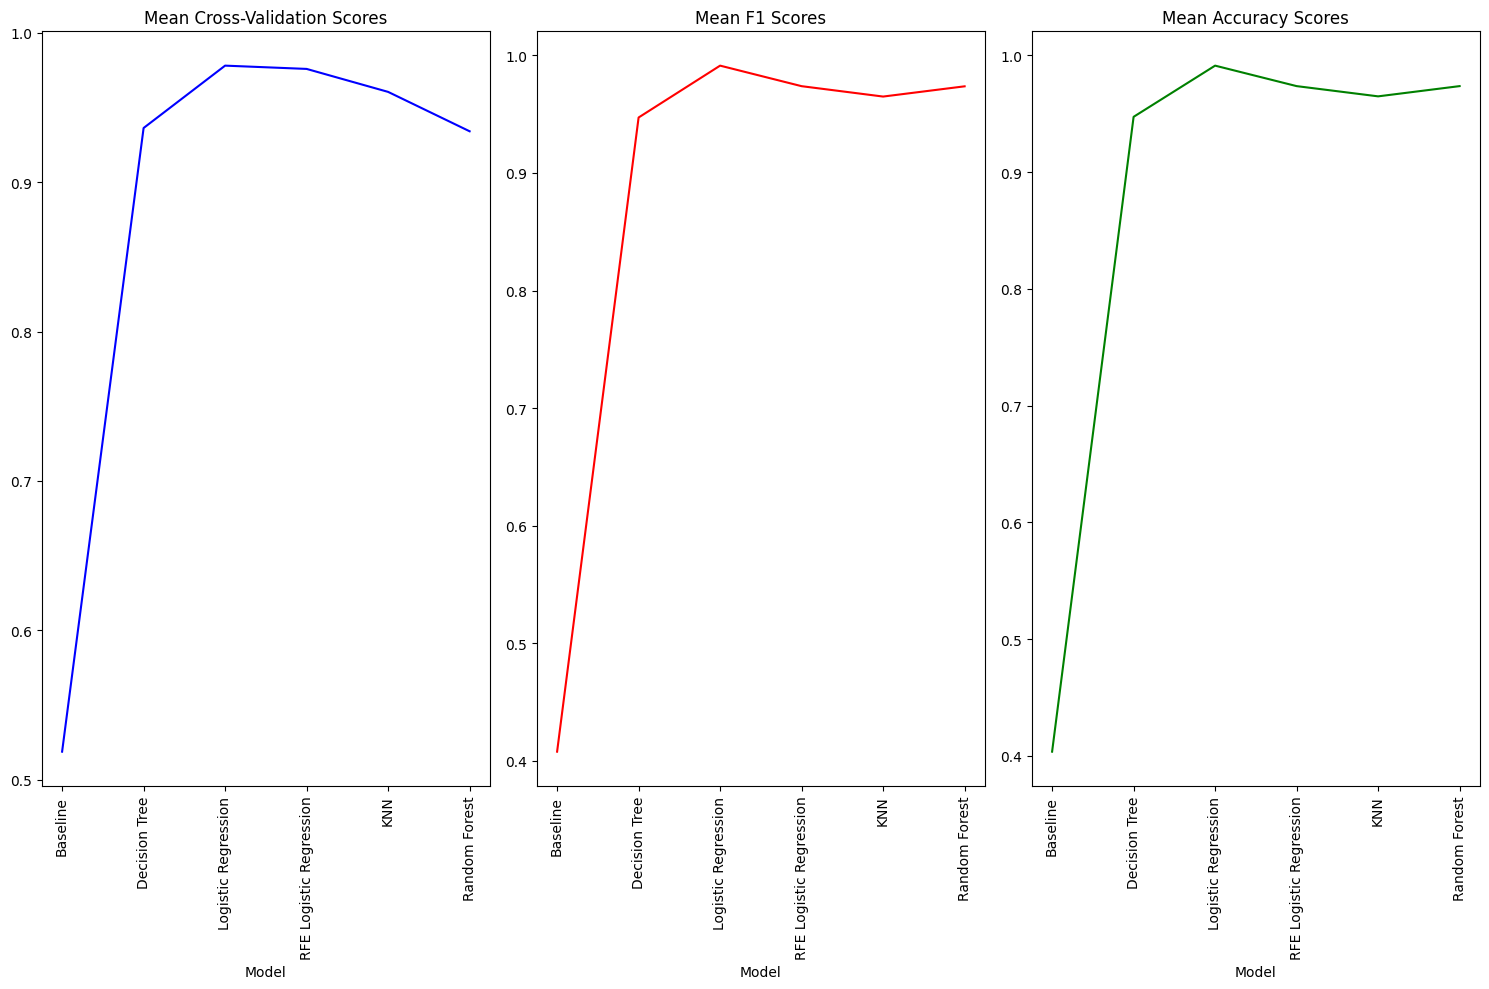
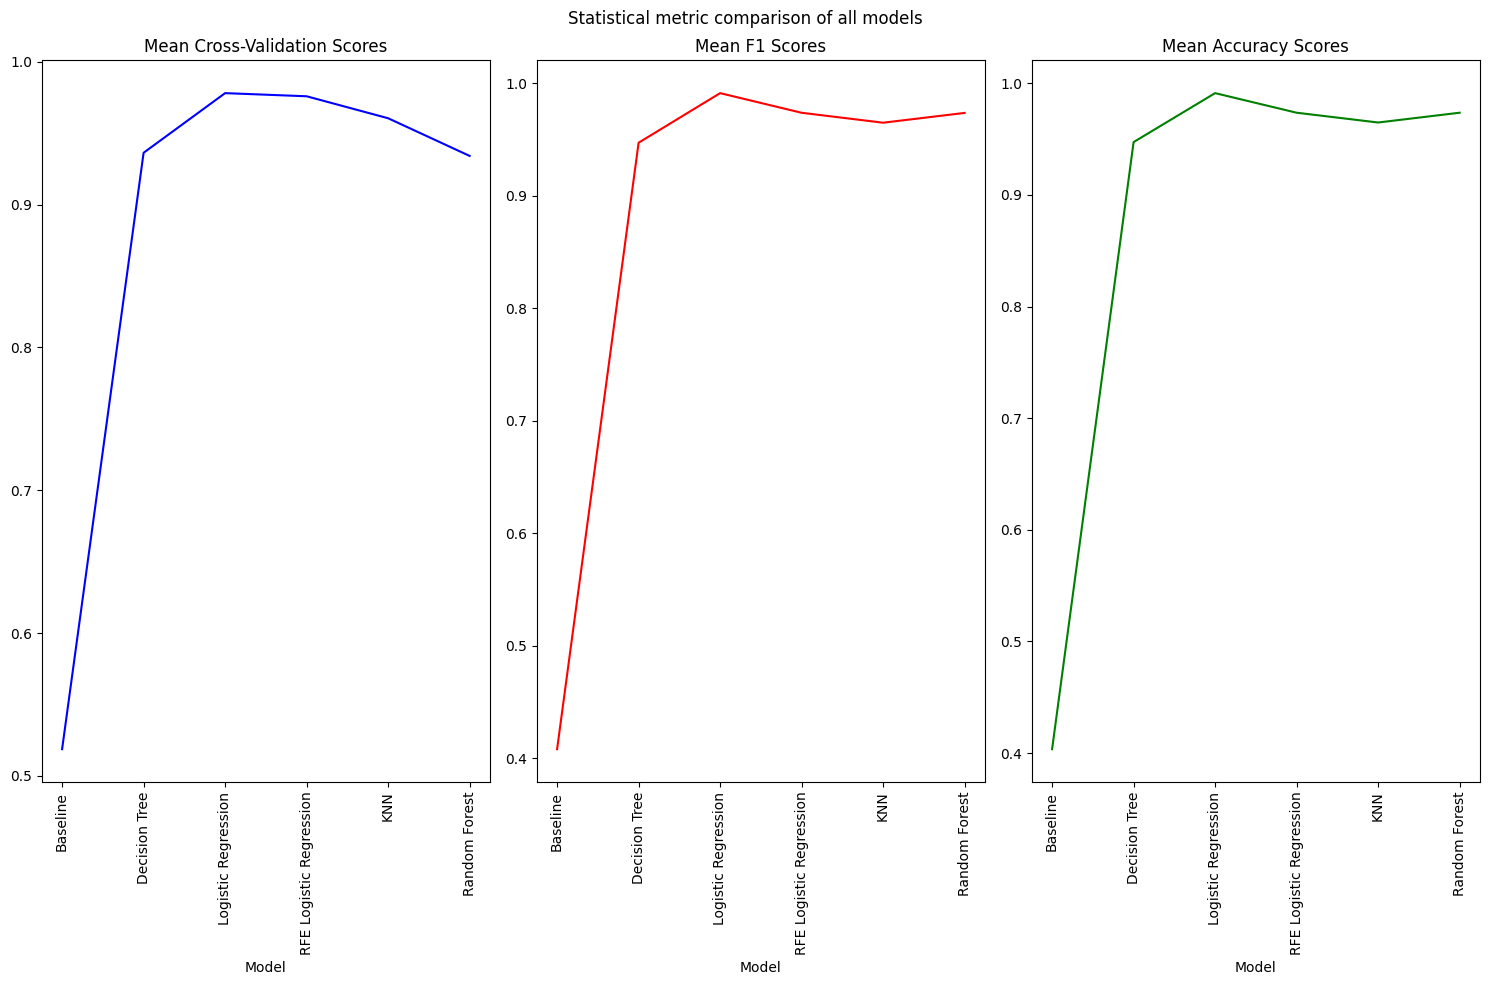
Error analysis streamline

diff --git a/lime_explanations/Random Forest_explanation_8.html b/lime_explanations/Random Forest_explanation_8.html
@@ -37089,10 +37089,10 @@
 /***/ })
 /******/ ]);
 //# sourceMappingURL=bundle.js.map </script></head><body>
-        <div class="lime top_div" id="top_div5H208G8TCDR0Z7X"></div>
+        <div class="lime top_div" id="top_divKRIQ844ONK4D49P"></div>
         
         <script>
-        var top_div = d3.select('#top_div5H208G8TCDR0Z7X').classed('lime top_div', true);
+        var top_div = d3.select('#top_divKRIQ844ONK4D49P').classed('lime top_div', true);
         
             var pp_div = top_div.append('div')
                                 .classed('lime predict_proba', true);
@@ -37104,10 +37104,10 @@
             var exp = new lime.Explanation(["Negative", "Positive"]);
         
                 exp_div = top_div.append('div').classed('lime explanation', true);
-                exp.show([["concave points_worst > 0.16", 0.058784060726469606], ["area_se <= 18.17", -0.05731649548397294], ["symmetry_worst > 0.32", 0.053042632559569876], ["texture_mean <= 16.17", -0.039763622688414435], ["concavity_worst > 0.39", 0.038975241702547306], ["smoothness_mean > 0.10", 0.03403416691038161], ["21.05 < texture_worst <= 25.22", -0.025630973496369246], ["516.45 < area_worst <= 686.60", -0.021902538343172902], ["fractal_dimension_worst > 0.09", 0.0176230949288597], ["compactness_worst > 0.34", 0.017004337103742634]], 1, exp_div);
+                exp.show([["area_se <= 18.17", -0.05894774618236698], ["concave points_worst > 0.16", 0.05372699673829915], ["symmetry_worst > 0.32", 0.05090749284629121], ["concavity_worst > 0.39", 0.04767807133354301], ["texture_mean <= 16.17", -0.04032498336562139], ["smoothness_mean > 0.10", 0.03084870499569545], ["fractal_dimension_worst > 0.09", 0.02236998699935285], ["21.05 < texture_worst <= 25.22", -0.021425967749089923], ["516.45 < area_worst <= 686.60", -0.019106697527694203], ["compactness_worst > 0.34", 0.0186536678407806]], 1, exp_div);
                 
         var raw_div = top_div.append('div');
-            exp.show_raw_tabular([["concave points_worst", "0.17", 0.058784060726469606], ["area_se", "12.96", -0.05731649548397294], ["symmetry_worst", "0.35", 0.053042632559569876], ["texture_mean", "15.86", -0.039763622688414435], ["concavity_worst", "0.49", 0.038975241702547306], ["smoothness_mean", "0.11", 0.03403416691038161], ["texture_worst", "23.19", -0.025630973496369246], ["area_worst", "614.90", -0.021902538343172902], ["fractal_dimension_worst", "0.10", 0.0176230949288597], ["compactness_worst", "0.48", 0.017004337103742634]], 1, raw_div);
+            exp.show_raw_tabular([["area_se", "12.96", -0.05894774618236698], ["concave points_worst", "0.17", 0.05372699673829915], ["symmetry_worst", "0.35", 0.05090749284629121], ["concavity_worst", "0.49", 0.04767807133354301], ["texture_mean", "15.86", -0.04032498336562139], ["smoothness_mean", "0.11", 0.03084870499569545], ["fractal_dimension_worst", "0.10", 0.02236998699935285], ["texture_worst", "23.19", -0.021425967749089923], ["area_worst", "614.90", -0.019106697527694203], ["compactness_worst", "0.48", 0.0186536678407806]], 1, raw_div);
         
         </script>
         </body></html>

diff --git a/lime_explanations/Random Forest_explanation_20.html b/lime_explanations/Random Forest_explanation_20.html
@@ -37089,10 +37089,10 @@
 /***/ })
 /******/ ]);
 //# sourceMappingURL=bundle.js.map </script></head><body>
-        <div class="lime top_div" id="top_divNBMEQ10EDQHQXT0"></div>
+        <div class="lime top_div" id="top_div8LU15E24CD7WC4V"></div>
         
         <script>
-        var top_div = d3.select('#top_divNBMEQ10EDQHQXT0').classed('lime top_div', true);
+        var top_div = d3.select('#top_div8LU15E24CD7WC4V').classed('lime top_div', true);
         
             var pp_div = top_div.append('div')
                                 .classed('lime predict_proba', true);
@@ -37104,10 +37104,10 @@
             var exp = new lime.Explanation(["Negative", "Positive"]);
         
                 exp_div = top_div.append('div').classed('lime explanation', true);
-                exp.show([["texture_worst <= 21.05", -0.06316825766137067], ["texture_mean <= 16.17", -0.038356660774251004], ["symmetry_se <= 0.02", 0.03149608245756342], ["smoothness_se <= 0.01", -0.029081091603496555], ["fractal_dimension_worst > 0.09", 0.0205340106335401], ["0.25 < symmetry_worst <= 0.28", -0.01951914912822505], ["18.17 < area_se <= 24.72", -0.019235913025219983], ["compactness_worst > 0.34", 0.01754066634627902], ["85.98 < perimeter_mean <= 103.75", 0.017146283869936284], ["14.97 < radius_worst <= 18.41", 0.016297291746606133]], 1, exp_div);
+                exp.show([["texture_worst <= 21.05", -0.055139015962286535], ["texture_mean <= 16.17", -0.03613687987814573], ["smoothness_se <= 0.01", -0.030333990522024627], ["symmetry_se <= 0.02", 0.0239827860281099], ["14.97 < radius_worst <= 18.41", 0.02240709251282776], ["18.17 < area_se <= 24.72", -0.0220743516904115], ["fractal_dimension_worst > 0.09", 0.01722726918418618], ["compactness_worst > 0.34", 0.01614616048475577], ["686.60 < area_worst <= 1031.50", 0.015514040877774646], ["texture_se <= 0.83", 0.013879450729629535]], 1, exp_div);
                 
         var raw_div = top_div.append('div');
-            exp.show_raw_tabular([["texture_worst", "20.86", -0.06316825766137067], ["texture_mean", "15.79", -0.038356660774251004], ["symmetry_se", "0.01", 0.03149608245756342], ["smoothness_se", "0.00", -0.029081091603496555], ["fractal_dimension_worst", "0.10", 0.0205340106335401], ["symmetry_worst", "0.26", -0.01951914912822505], ["area_se", "23.35", -0.019235913025219983], ["compactness_worst", "0.35", 0.01754066634627902], ["perimeter_mean", "90.43", 0.017146283869936284], ["radius_worst", "16.57", 0.016297291746606133]], 1, raw_div);
+            exp.show_raw_tabular([["texture_worst", "20.86", -0.055139015962286535], ["texture_mean", "15.79", -0.03613687987814573], ["smoothness_se", "0.00", -0.030333990522024627], ["symmetry_se", "0.01", 0.0239827860281099], ["radius_worst", "16.57", 0.02240709251282776], ["area_se", "23.35", -0.0220743516904115], ["fractal_dimension_worst", "0.10", 0.01722726918418618], ["compactness_worst", "0.35", 0.01614616048475577], ["area_worst", "812.40", 0.015514040877774646], ["texture_se", "0.62", 0.013879450729629535]], 1, raw_div);
         
         </script>
         </body></html>

diff --git a/lime_explanations/Random Forest_explanation_36.html b/lime_explanations/Random Forest_explanation_36.html
@@ -37089,10 +37089,10 @@
 /***/ })
 /******/ ]);
 //# sourceMappingURL=bundle.js.map </script></head><body>
-        <div class="lime top_div" id="top_divFGNAIIJIN4RA9MF"></div>
+        <div class="lime top_div" id="top_divYLGTFO489J87ZF8"></div>
         
         <script>
-        var top_div = d3.select('#top_divFGNAIIJIN4RA9MF').classed('lime top_div', true);
+        var top_div = d3.select('#top_divYLGTFO489J87ZF8').classed('lime top_div', true);
         
             var pp_div = top_div.append('div')
                                 .classed('lime predict_proba', true);
@@ -37104,10 +37104,10 @@
             var exp = new lime.Explanation(["Negative", "Positive"]);
         
                 exp_div = top_div.append('div').classed('lime explanation', true);
-                exp.show([["texture_worst > 29.69", 0.06348080164694257], ["area_worst > 1031.50", 0.056852199145323225], ["radius_worst > 18.41", 0.04922439565779925], ["texture_mean > 21.59", 0.04121235905071919], ["area_mean > 767.60", 0.038534127629832174], ["radius_mean > 15.74", 0.031250121108393564], ["symmetry_se <= 0.02", 0.026821889064809885], ["smoothness_se <= 0.01", -0.025846052478059503], ["concavity_se <= 0.02", -0.0238299968620601], ["smoothness_mean <= 0.09", -0.018962992688445306]], 1, exp_div);
+                exp.show([["radius_worst > 18.41", 0.05941288677672619], ["texture_worst > 29.69", 0.05748730188791468], ["area_worst > 1031.50", 0.05349067289772193], ["texture_mean > 21.59", 0.04826396675756828], ["area_mean > 767.60", 0.041823865211136034], ["radius_mean > 15.74", 0.026658977605624894], ["smoothness_se <= 0.01", -0.026525495990840836], ["symmetry_se <= 0.02", 0.024041241606337145], ["smoothness_mean <= 0.09", -0.0221361213395427], ["concavity_se <= 0.02", -0.02155169281638815]], 1, exp_div);
                 
         var raw_div = top_div.append('div');
-            exp.show_raw_tabular([["texture_worst", "33.88", 0.06348080164694257], ["area_worst", "1150.00", 0.056852199145323225], ["radius_worst", "19.19", 0.04922439565779925], ["texture_mean", "23.24", 0.04121235905071919], ["area_mean", "797.80", 0.038534127629832174], ["radius_mean", "16.02", 0.031250121108393564], ["symmetry_se", "0.01", 0.026821889064809885], ["smoothness_se", "0.00", -0.025846052478059503], ["concavity_se", "0.01", -0.0238299968620601], ["smoothness_mean", "0.08", -0.018962992688445306]], 1, raw_div);
+            exp.show_raw_tabular([["radius_worst", "19.19", 0.05941288677672619], ["texture_worst", "33.88", 0.05748730188791468], ["area_worst", "1150.00", 0.05349067289772193], ["texture_mean", "23.24", 0.04826396675756828], ["area_mean", "797.80", 0.041823865211136034], ["radius_mean", "16.02", 0.026658977605624894], ["smoothness_se", "0.00", -0.026525495990840836], ["symmetry_se", "0.01", 0.024041241606337145], ["smoothness_mean", "0.08", -0.0221361213395427], ["concavity_se", "0.01", -0.02155169281638815]], 1, raw_div);
         
         </script>
         </body></html>

diff --git a/evaluation_error analysis.py b/evaluation_error analysis.py
@@ -71,6 +71,7 @@ axes[1].set_title('Mean F1 Scores')
 axes[2].set_title('Mean Accuracy Scores')
 for ax in axes:
     ax.set_xticklabels(ax.get_xticklabels(), rotation=90)
+fig.suptitle('Statistical metric comparison of all models')
 plt.tight_layout()
 plt.show()
 
@@ -118,49 +119,28 @@ print(common_errors)
 print('\n')
 
 
-#PCA for visualization of misclassified samples
-pca = PCA(n_components=2)
-X_pca = pca.fit_transform(X_test)
-
-misclassified_indices = np.zeros_like(y_test, dtype=bool)
-for model in models.values():
-    misclassified_indices |= (y_test != model.predict(X_test))
-true_labels = y_test[misclassified_indices]
-
-misclassified_rows = X_test[misclassified_indices]
-misclassified_rows['True Label'] = true_labels
-
-plt.figure(figsize=(10, 6))
-plt.scatter(X_pca[~misclassified_indices, 0], X_pca[~misclassified_indices, 1], 
-            c=y_test[~misclassified_indices], cmap='coolwarm', alpha=0.6, label='Correctly Classified')
-plt.scatter(X_pca[misclassified_indices, 0], X_pca[misclassified_indices, 1], c=true_labels, cmap='autumn', 
-            edgecolor='k', s=100, label='Misclassified')
-plt.legend()
-plt.title('PCA Visualization of Misclassifications')
-plt.xlabel('Principal Component 1')
-plt.ylabel('Principal Component 2')
-plt.show()
-
-
 """Evaluating model interpretability for misclassified samples, Comparing the means
 of misclassified and correctly classified samples for each model"""
 
 # Identify misclassified and correctly classified rows for each model
+# Focus only on the Logistic Regression model
 misclassified = []
 correctly_classified = []
 
-for model_name, model in models.items():
-    y_pred = model.predict(X_test)
-    misclassified.append(X_test[y_test != y_pred])
-    correctly_classified.append(X_test[y_test == y_pred])
+model = models['Logistic Regression']
+y_pred = model.predict(X_test)
+misclassified.append(X_test[y_test != y_pred])
+correctly_classified.append(X_test[y_test == y_pred])
 
 misclassified = pd.concat(misclassified)
 correctly_classified = pd.concat(correctly_classified)
 misclassified_summary = misclassified.describe().T
 correctly_classified_summary = correctly_classified.describe().T
-#save the summary statistics in a dataframe
+
+# Save the summary statistics in a dataframe
 misclassified_df = pd.DataFrame(misclassified_summary)
 correctly_classified_df = pd.DataFrame(correctly_classified_summary)
+
 # Align on shared statistics
 misclassified_mean = misclassified_df['mean']
 correctly_classified_mean = correctly_classified_df['mean']
@@ -171,13 +151,13 @@ diff_df = pd.DataFrame({'Mean Difference': mean_diff,
                         'Misclassified Mean': misclassified_mean, 
                         'Correctly Classified Mean': correctly_classified_mean})
 
-#plot a line grapH for the features to compare the means of misclassified and correctly classified samples for all models.
+# Plot a line graph for the features to compare the means of misclassified and correctly classified samples for the Logistic Regression model.
 plt.figure(figsize=(10, 6))
 plt.plot(misclassified_mean, label='Misclassified Mean', marker='o')
 plt.plot(correctly_classified_mean, label='Correctly Classified Mean', marker='o')
 plt.xlabel('Features')
 plt.ylabel('Mean')
-plt.title('Mean Comparison of Misclassified and Correctly Classified Samples')
+plt.title('Mean Comparison of Misclassified and Correctly Classified Samples (Logistic Regression)')
 plt.xticks(rotation=90)
 plt.legend()
 plt.show()
@@ -201,30 +181,6 @@ for model_name, model in models.items():
     print(f'LIME Explanation for {model_name}:')
     lime_explanation(model, X_train, X_test, 20)
     print('\n')
-
-# Function for LIME Explanation for a range of misclassified samples
-def lime_explanation_for_errors(model, X_train, X_test, y_test, model_name):
-    # Create the LIME explainer
-    explainer = lime.lime_tabular.LimeTabularExplainer(
-        training_data=np.array(X_train),
-        mode='classification',
-        class_names=['Negative', 'Positive'],
-        feature_names=X_train.columns,
-        discretize_continuous=True)
-    
-    # Identify misclassified samples
-    y_pred = model.predict(X_test)
-    misclassified_indices = np.where(y_pred != y_test)[0]
-    
-    explanations = {}
-    # Apply LIME to each misclassified sample and visualize
-    for i in misclassified_indices:
-        exp = explainer.explain_instance(X_test.iloc[i], model.predict_proba)
-        explanations[i] = exp
-        print(f'LIME Explanation for misclassified sample {i} using {model_name}:')
-        exp.show_in_notebook()  # This shows the LIME explanation for each misclassified instance
-    return explanations
-
 
 
 # Function for LIME Explanation for false positives and false negatives
@@ -262,8 +218,6 @@ for model_name, model in models.items():
         continue  # Skip the baseline model
     print(f'Error Analysis and LIME Explanations for {model_name}:')
     
-    # Perform LIME explanation on misclassified samples
-    lime_explanation_for_errors(model, X_train, X_test, y_test, model_name)
     # Perform LIME explanation on false positives and false negatives
     lime_explanation_for_fp_fn(model, X_train, X_test, y_test, model_name)
     

diff --git a/classification.py b/classification.py
@@ -257,11 +257,14 @@ def random_forest_with_grid_search(X_train, X_test, y_train, y_test):
     accuracy_scores['Random Forest'] = accuracy
 
     #Feature importance
-    importances = best_model.named_steps['classifier'].feature_importances_
-    feature_names = X_train.columns if hasattr(X_train, 'columns') else [f'Feature{i+1}' for i in range(X_train.shape[1])]
+    classifier = best_model.named_steps['classifier']
+    if hasattr(classifier, 'feature_importances_'):
+        importances = classifier.feature_importances_
+        feature_names = [f'PC{i+1}' for i in range(importances.shape[0])]
+        plot_feature_importances(importances, 'Random Forest Feature Importances (PCA)', feature_names)
+    else:
+        print("Feature importances not available for the selected model.")
    
-   #Plot feature importance for original features
-    plot_feature_importances(importances, 'Random Forest Feature Importances', feature_names)
-
+  
 random_forest_with_grid_search(X_train, X_test, y_train, y_test)
 
